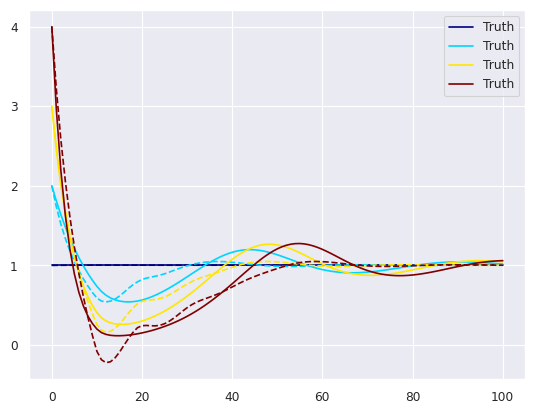
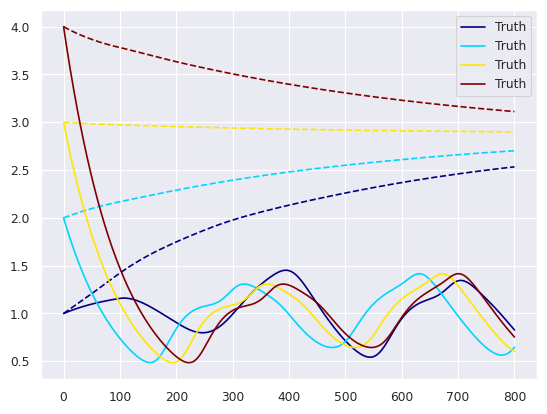
fixed adjoint

diff --git a/torchdde/nnde_adjoint.py b/torchdde/nnde_adjoint.py
@@ -144,7 +144,7 @@ class nddeint2_ACA(torch.autograd.Function):
 
 class nddeint_ACA(torch.autograd.Function):
     @staticmethod
-    def forward(ctx, history_func, func, ts, *params):
+    def forward(ctx, history_func, func, ts, kind, *params):
         # Saving parameters for backward()
         ctx.func = func
         # ctx.flat_params = flat_params
@@ -187,7 +187,7 @@ class nddeint_ACA(torch.autograd.Function):
         ctx.alltimes = alltimes
         ctx.history = state_interpolator
         ctx.allstates = torch.hstack(values)[..., None]
-        # print("tx.ys.grad_fn", ctx.allstates.grad_fn)
+        ctx.kind = kind
         return ctx.allstates
 
     @staticmethod
@@ -203,12 +203,9 @@ class nddeint_ACA(torch.autograd.Function):
         # f_params holds the NDDE parameters for which a gradient will be computed
         params = ctx.saved_tensors
         state_interpolator = ctx.history
-        # aux = []
-        # for t in time_mesh :
-        #     aux.append(state_interpolator(t)[0])
 
         T = time_mesh[-1]
-        # adjoint_state = grad_output[:, -1]
+
         adjoint_state = torch.zeros_like(grad_output[:, -1])
         adjoint_ys_final = -grad_output[:, -1].reshape(
             adjoint_state.shape[0], 1, *adjoint_state.shape[1:]
@@ -225,8 +222,6 @@ class nddeint_ACA(torch.autograd.Function):
             # device=adjoint_ys_final.device,
         )
 
-        # adjoint_history = lambda t : adjoint_state if t==T else torch.zeros_like(adjoint_state)
-        out2 = None
         # The adjoint state as well as the parameters' gradient are integrated backwards in time.
         # Following the Adaptive Checkpoint Adjoint method, the time steps and corresponding states of the forward
         # integration are re-used by going backwards in the time mesh.
@@ -271,44 +266,19 @@ class nddeint_ACA(torch.autograd.Function):
                 param_derivative_inc = torch.autograd.grad(
                     out, params, -adjoint_state, retain_graph=False
                 )
+                
+                adjoint_state = adjoint_state - ctx.dt * rhs_adjoint
 
                 if stacked_params is None:
                     stacked_params = tuple([torch.unsqueeze(p, dim=-1) for p in param_derivative_inc])
                 else : 
                     stacked_params = tuple([torch.concat([_1, torch.unsqueeze(_2, dim=-1)], dim=-1) for _1, _2 in zip(stacked_params, param_derivative_inc)])
-                
-                # for p in stacked_params: 
-                #     print("stacked_params", p.shape)
-                # aux.append(param_derivative_inc)
-                adjoint_state = adjoint_state - ctx.dt * rhs_adjoint
-
-                if out2 is None:
-                    out2 = tuple([+ ctx.dt* p for p in param_derivative_inc])
-                else:
-                    for _1, _2 in zip([*out2], [*param_derivative_inc]):
-                        _1 = _1 + ctx.dt* _2
-        
-        cum_sum = tuple([ctx.dt * torch.cumsum(p, dim=-1) for p in stacked_params])
-        sum_cum_sum = tuple([torch.trapezoid(p, dim=-1) for p in cum_sum])
-        test_out = tuple([ctx.dt*p.sum(dim=-1) for p in stacked_params])
-        # print(*out2, "out2")
-        # values = np.array(aux)
-        # print('values,', values.shape)
-        # sum_cum_values = ctx.dt * torch.from_numpy(np.trapz(np.cumsum(values, axis=1), axis=0))
-        # sum_cum_values = ctx.dt * torch.from_numpy(np.sum(np.cumsum(values, axis=1), axis=0))
-        # print(sum_cum_values, *out2)
-        # print("cum_values", sum_cum_values.shape, sum_cum_values, *out2)
-        # plt.plot(values)
-        # plt.show()
-        # print(aux[-1].shape, values.shape, *out2)
-        
-        print('{:.3e}'.format(max([p.max().item() for p in out2])))
-        print('{:.3e}'.format(max([p.max().item() for p in sum_cum_sum])))
-        #return None, None, None, *sum_cum_sum
-        return None, None, None, *test_out
+                    
+            out = tuple([ctx.dt*p.sum(dim=-1) for p in stacked_params])
+            return None, None, None, None, *out
 
 
-def nddesolve_adjoint(history, func, options):
+def nddesolve_adjoint(history, func, ts, kind):
     # Main function to be called to integrate the NODE
 
     # z0 : (tensor) Initial state of the NODE
@@ -322,7 +292,7 @@ def nddesolve_adjoint(history, func, options):
 
     # Forward integrating the NODE and returning the state at each evaluation step
     # zs = nddeint2_ACA.apply(history, func, options, *params)
-    zs = nddeint_ACA.apply(history, func, options, *params)
+    zs = nddeint_ACA.apply(history, func, ts, kind, *params)
     return zs
 
 

diff --git a/ndde.py b/ndde.py
@@ -4,11 +4,11 @@
 import warnings
 
 import matplotlib.pyplot as plt
-from matplotlib.pyplot import cm
 import numpy as np
 import seaborn
 import torch
 import torch.nn as nn
+from matplotlib.pyplot import cm
 from scipy.integrate import solve_ivp
 
 from model import NDDE, SimpleNDDE, SimpleNDDE2
@@ -31,26 +31,18 @@ def simple_dde3(t, y, *, history):
     return 0.25 * (history[0]) / (1.0 + history[0] ** 10) - 0.1 * y
     # return 1/2*y -history[0]
 
-class DDEModule(nn.Module):
-    def __init__(self,list_delays):
-        super().__init__()
-        self.delays = list_delays
-
-    def forward(self,t,y,*,history):
-
-        return  y * (1 - history[0])
-
+torch.manual_seed(0)
 device = "cpu"
 history_values = torch.tensor([1.0, 2.0, 3.0, 4.0])
 history_values = history_values.view(history_values.shape[0], 1)
 history_function = lambda t: history_values
 print("history_values", history_values.shape)
 
-ts = torch.linspace(0, 10, 101)
-list_delays = [1.0]
+ts = torch.linspace(0, 80, 801)
+list_delays = [10.0]
 solver = RK4()
 dde_solver = DDESolver(solver, list_delays)
-ys, _ = dde_solver.integrate(simple_dde, ts, history_function)
+ys, _ = dde_solver.integrate(simple_dde3, ts, history_function)
 print(ys.shape)
 
 for i in range(ys.shape[0]):
@@ -70,13 +62,14 @@ opt = torch.optim.Adam(model.parameters(), lr=3e-3, weight_decay=0)
 losses = []
 lens = []
 
+kind = "sum_cum_sum" # "sum_cum_sum" "test_out"
 mask = np.logspace(1,1e-1,ts.shape[0])/10
 mask = torch.tensor(mask.reshape(1,mask.shape[0],1),device=device)
 colors = cm.jet(np.linspace(0,1,len(history_values)))
 max_epoch = 5000
 for i in range(max_epoch):
     opt.zero_grad()
-    ret = nddesolve_adjoint(history_function, model, ts)
+    ret = nddesolve_adjoint(history_function, model, ts, kind=kind) 
     loss = lossfunc(ret, ys)
     loss.backward()
     opt.step()
@@ -87,7 +80,7 @@ for i in range(max_epoch):
         plt.legend()
         plt.savefig('last_res.png',bbox_inches='tight',dpi=100)
         plt.close()
-    print("Epoch : {:4d}, Loss : {:.3e}".format(i, loss.item()))
+    print("Epoch : {:4d}, Loss : {:.3e}, {}".format(i, loss.item(), kind))
 
     losses.append(loss.item())
     
